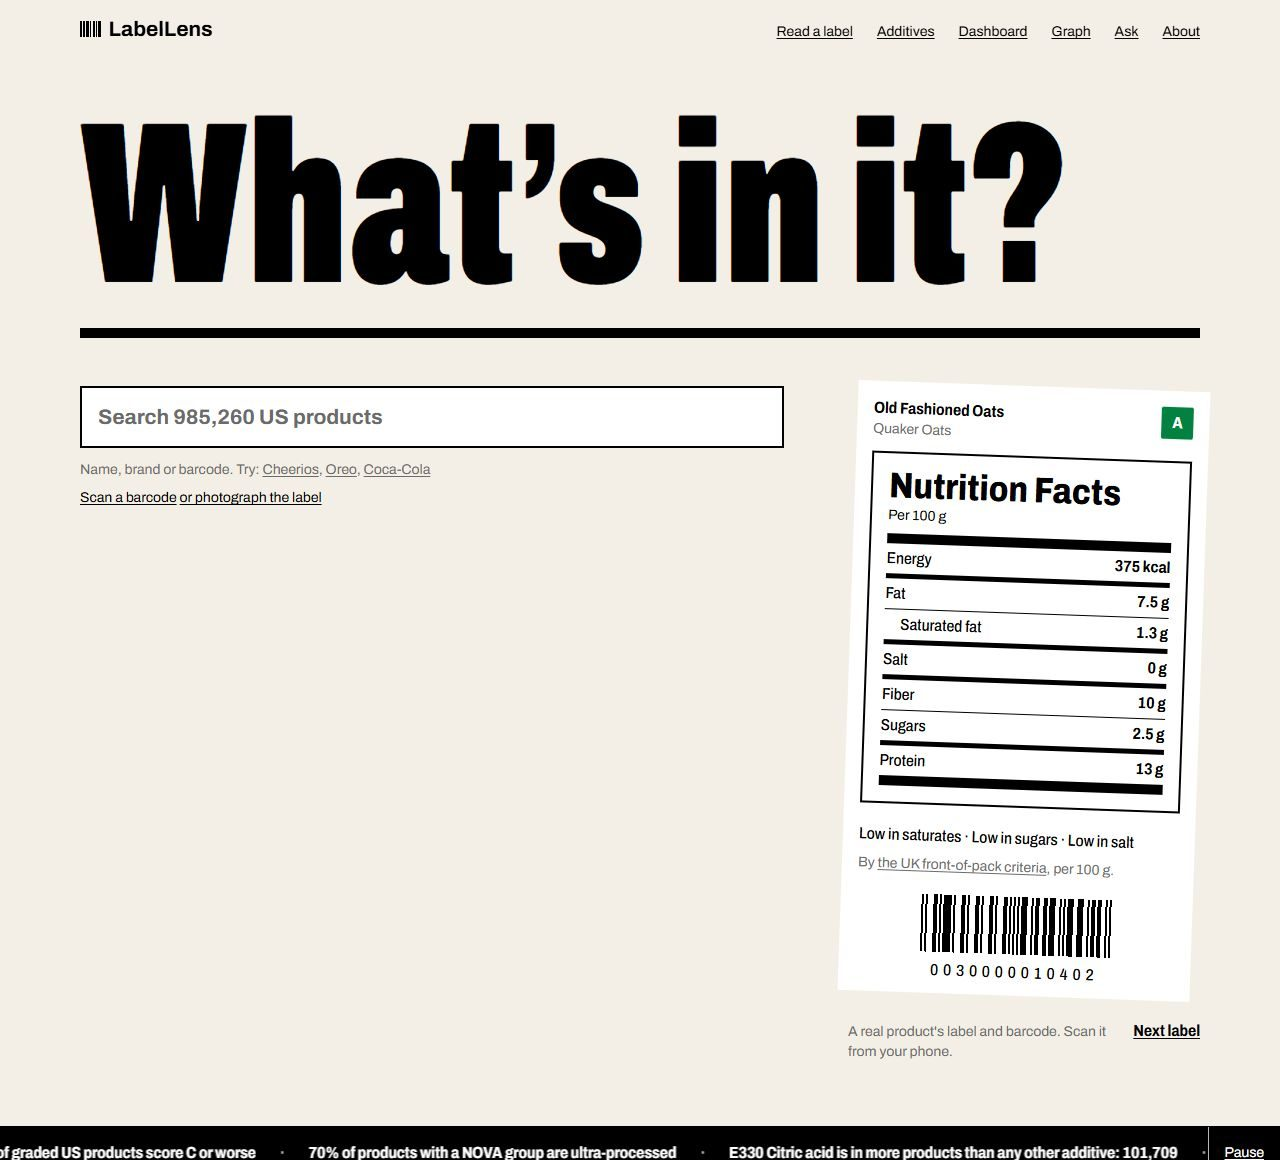
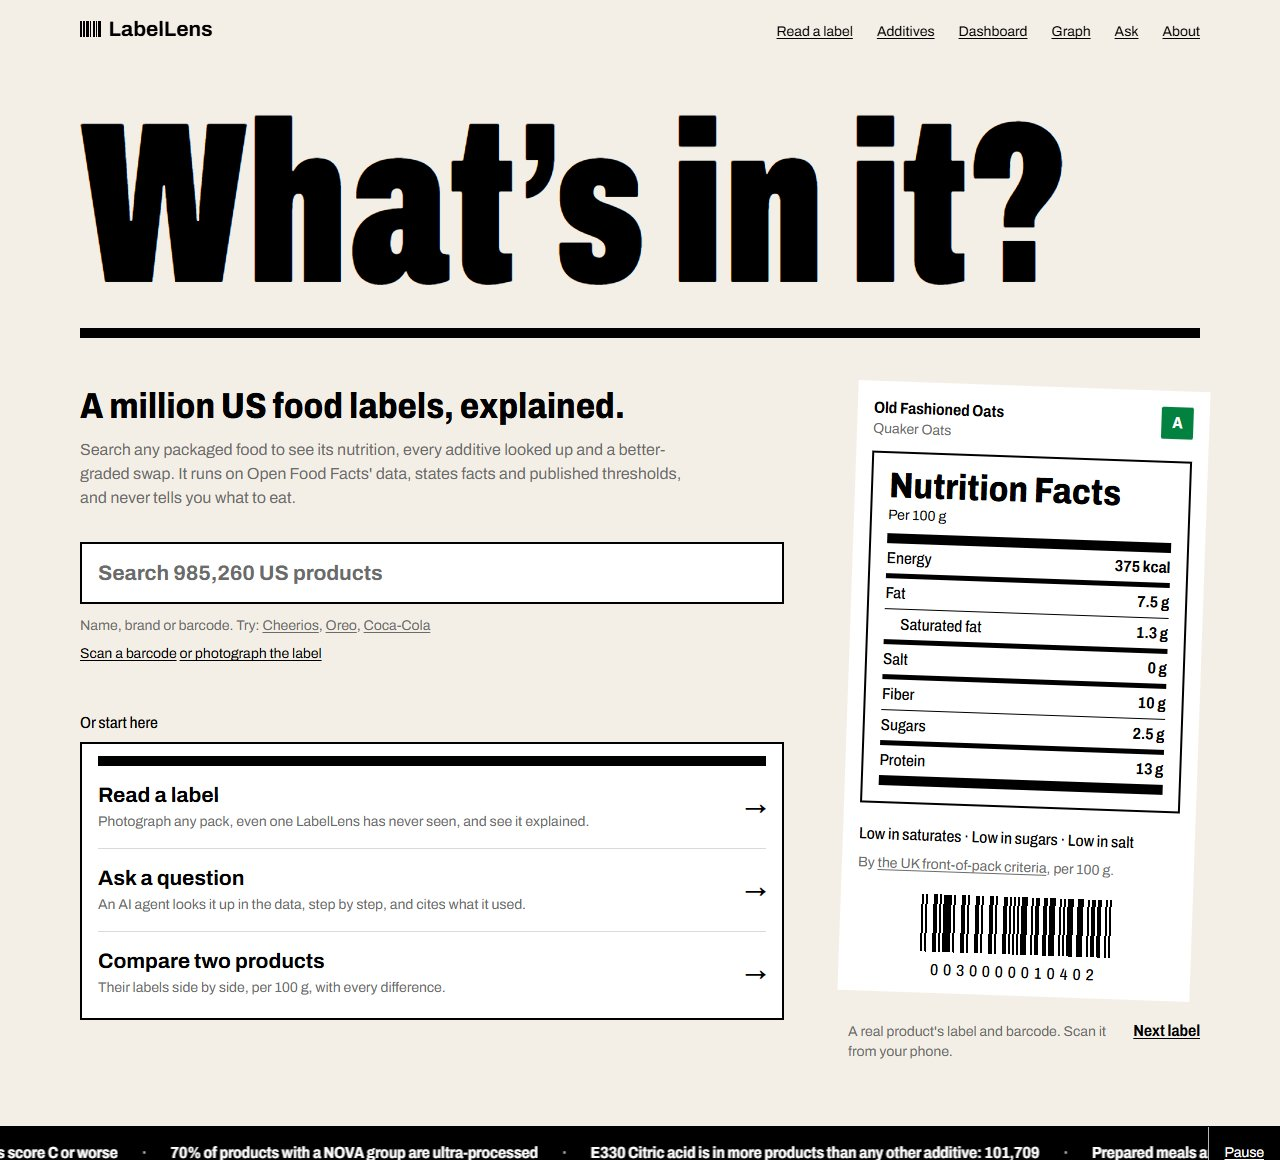
README screenshots of the current site, 100 px thumbnails, and decision note 0018

diff --git a/web/components/label/pack-photo.test.tsx b/web/components/label/pack-photo.test.tsx
@@ -1,7 +1,7 @@
 import { cleanup, render, screen } from "@testing-library/react";
 import { afterEach, expect, test } from "vitest";
 
-import { PackPhoto } from "./pack-photo";
+import { PackPhoto, thumbnail } from "./pack-photo";
 
 afterEach(cleanup);
 
@@ -28,6 +28,17 @@ test("a row thumbnail is decoration beside the name, loaded lazily", () => {
   expect(img.getAttribute("alt")).toBe("");
   expect(img.getAttribute("loading")).toBe("lazy");
   expect(container.firstElementChild?.className).toContain("h-12 w-12");
+  // The 100 px photo, not the 400 px one the page's main photo uses.
+  expect(img.getAttribute("src")).toBe(SRC.replace(".400.jpg", ".100.jpg"));
+});
+
+test("only Open Food Facts' 400 px photos are swapped for their 100 px version", () => {
+  expect(thumbnail("https://images.openfoodfacts.org/x/front_en.8.400.jpg")).toBe(
+    "https://images.openfoodfacts.org/x/front_en.8.100.jpg",
+  );
+  expect(thumbnail("https://images.openfoodfacts.org/x/front_en.8.full.jpg")).toBe(
+    "https://images.openfoodfacts.org/x/front_en.8.full.jpg",
+  );
 });
 
 test("a row without a photo keeps an empty frame, so rows line up", () => {

diff --git a/web/app/product/[code]/page.tsx b/web/app/product/[code]/page.tsx
@@ -2,9 +2,8 @@ import type { Metadata } from "next";
 import Link from "next/link";
 import { notFound } from "next/navigation";
 import { Suspense, ViewTransition } from "react";
-import { preconnect } from "react-dom";
 
-import { PackPhoto, PHOTO_ORIGIN } from "@/components/label/pack-photo";
+import { PackPhoto } from "@/components/label/pack-photo";
 import { Rule } from "@/components/label/primitives";
 import { AdditiveList } from "@/components/product/additive-list";
 import { IngredientList } from "@/components/product/ingredient-list";
@@ -52,9 +51,6 @@ export async function generateMetadata({
 
 /** Not async: params are awaited inside the Suspense boundary, so the shell prerenders. */
 export default function ProductPage({ params }: PageProps<"/product/[code]">) {
-  // The pack photo is the largest thing on the page and comes from Open Food Facts' image
-  // server: connect to it while the product loads, so the photo is not waiting on a handshake.
-  preconnect(PHOTO_ORIGIN);
   return (
     <Suspense fallback={<ProductSkeleton />}>
       {params.then(({ code }) => (

diff --git a/web/components/label/pack-photo.tsx b/web/components/label/pack-photo.tsx
@@ -1,5 +1,11 @@
-/** Where Open Food Facts serves pack photos from. */
-export const PHOTO_ORIGIN = "https://images.openfoodfacts.org";
+/**
+ * Open Food Facts serves each photo at 100, 200 and 400 px wide (`front_en.8.400.jpg`). A 48 or
+ * 96 px frame needs the 100 px one (sharp at twice the pixel density), a sixth of the bytes,
+ * so thumbnails do not compete with the page's main photo.
+ */
+export function thumbnail(src: string): string {
+  return src.replace(/\.400\.jpg$/, ".100.jpg");
+}
 
 /**
  * A product's pack photo, linked from Open Food Facts (never copied or re-hosted: About, "Where
@@ -53,7 +59,7 @@ export function PackPhoto({
     >
       {src && (
         // eslint-disable-next-line @next/next/no-img-element
-        <img src={src} alt="" loading="lazy" className="h-full w-full object-contain" />
+        <img src={thumbnail(src)} alt="" loading="lazy" className="h-full w-full object-contain" />
       )}
     </span>
   );

diff --git a/docs/decisions/0018-award-site-review.md b/docs/decisions/0018-award-site-review.md
@@ -1,0 +1,38 @@
+# 0018: Finishing the look against award-winning sites
+
+Status: draft, for Aditya to review and edit. Date: 2026-11-25.
+
+Before calling LabelLens finished, Aditya asked for it to be checked against award-winning sites (Awwwards, the Webby winners, Web Design Awards, Site of Sites, and Tabnav's list of best website designs). The site already had its own strong system (DESIGN.md: one label, Nutri-Score colours used only for grades, motion only when something prints). The question was what those sites do well that LabelLens did not, without copying their look.
+
+## Chosen: five changes that show the real thing, bigger, and quieter
+
+Every change was its own pull request, each with screenshots at 375, 1280 and 1600 px in `docs/design/`.
+
+- **Pack photos (#46).** Award sites about products show the product. LabelLens showed a name and numbers only. Product pages, search results, swaps, comparisons and the basket now show Open Food Facts' pack photo, linked rather than copied, with the contributors' CC BY-SA credit on the product page.
+- **Big page openings (#47).** The winners open each page with type that fills the screen. Every page title went from the Title size to a new Page size (52 px on phones up to 88 px), the same narrow, heavy face as the home headline.
+- **Things to try as cards (#48).** The sample labels on Read a label and the example questions on Ask were a line of underlined links. They are now cards: the label's photo, and each question with one line saying what the agent will do with it.
+- **An additive guide you can scan (#49).** One column of 515 additives was 27,000 px tall at 1280 px. It now shows the 50 most common, filters by what additives do (colours, preservatives and six more, each with its count), and offers "Show all 515". Any search or filter searches all of them. The page is about 3,750 px tall.
+- **Quiet motion on scroll (#50).** The home page's grade strip wipes in once when it scrolls into view, the same print move as the label, and stays still under reduced motion. Nothing else moves on scroll.
+
+The home hero (#45) was fixed in the same round: a line saying what LabelLens is, and the three main ways in under the search box, so the left half is no longer empty beside the label.
+
+**Rejected:**
+- **Numbers that count up** in "How it's measured". I proposed it; DESIGN.md already lists "Number counters that tick up" under Never, and the rule stands. The numbers are still.
+- **Fade-and-slide on every section**, parallax and scroll hijacking: common on award sites, and all on DESIGN.md's Never list. One element moves, once.
+- **Hosting or resizing the pack photos ourselves** (next/image or a CDN): it would copy Open Food Facts' photos, which About says LabelLens never does. Photos are linked from their server at the sizes it already offers.
+- **A new colour for the cards or chips:** colour on this site means a Nutri-Score grade. Cards are white panels with the ink rule; the chosen filter chip is paper on ink.
+
+**What it cost:**
+- **Speed on the product page.** The pack photo is now the largest thing on the page, so Lighthouse's largest-paint time is the photo's download. On production that took the product page from 98 to 91 on performance, against a target of 90. Connecting early to the photo server made no measurable difference, so it was not kept. Thumbnails now load Open Food Facts' 100 px photo instead of the 400 px one (6 kB instead of about 30 to 60 kB each), which helps search lists but did not move the product page's score.
+- **The grade strip needs JavaScript.** Without it the strip stays hidden, as the dashboard's bars already did.
+
+## Fixed after the round
+
+- **The page description reached Lighthouse too late.** Next.js streams a page's title and description into the body for any browser it does not know as a crawler, and Lighthouse's SEO check read the product page as having no description (91). `htmlLimitedBots: /.*/` puts them in the head for everyone. On a local production build against the live API, SEO went from 91 to 100 on all three runs, and the first paint was no slower (about 765 ms, against 908 ms before).
+- **The README's screenshots** were from 2026-11-19 and showed none of this round. The eight that changed were retaken from production.
+
+## Checked
+
+- `uv run python scripts/check.py` on every pull request; CI on main after each merge.
+- The production smoke test after the merges: 23 of 23.
+- Lighthouse on production after the five merges: home 100 in every category; product 91 on performance and SEO; dashboard 96 on performance, 100 on a rerun. `evals/results/lighthouse.md` is remeasured once the description fix is live.

diff --git a/README.md b/README.md
@@ -1,6 +1,6 @@
 <div align="center">
 
-<img src="docs/readme/hero.jpg" alt="The LabelLens home page: a poster headline asking What's in it?, a product search box, and a live Nutrition Facts label printed beside it like a sticker" width="100%">
+<img src="docs/readme/hero.jpg" alt="The LabelLens home page: a poster headline asking What's in it?, one line saying what LabelLens is, a product search box with the three main ways in under it, and a live Nutrition Facts label printed beside it like a sticker" width="100%">
 
 # LabelLens
 
@@ -44,17 +44,17 @@ LabelLens puts it in one place. It states facts and published thresholds, and it
 <table>
 <tr>
 <td width="50%" valign="top">
-<img src="docs/readme/product.jpg" alt="Product page for Cheerios: Nutri-Score C, NOVA 4, additives, a better swap and a Nutrition Facts panel" width="100%">
+<img src="docs/readme/product.jpg" alt="Product page for Oreo: its pack photo, Nutri-Score E, NOVA 4, five additives, three better swaps with their photos, a Nutrition Facts panel and high-in flags" width="100%">
 <b>Look up any product.</b> Search by name, brand or barcode, or scan one with your phone's camera. Each page shows the Nutri-Score, the NOVA processing group, nutrients per 100 g with plain "high in" and "low in" flags, and every additive explained.
 </td>
 <td width="50%" valign="top">
-<img src="docs/readme/label-read.jpg" alt="Read a label: two photos of a coconut water carton and the Nutrition Facts read from them" width="100%">
+<img src="docs/readme/label-read.jpg" alt="Read a label: three sample labels as photo cards, then two photos of a coconut water carton and the start of what was read from them" width="100%">
 <b>Read a label from a photo.</b> Photograph any pack, even one that isn't in the data. Claude reads what's printed, the code converts it to per 100 g, explains the additives, finds the product it most likely is, and suggests better-graded ones.
 </td>
 </tr>
 <tr>
 <td width="50%" valign="top">
-<img src="docs/readme/ask.jpg" alt="The ask page answering: breakfast cereals under 5 g sugar without artificial colours, with ten numbered sources" width="100%">
+<img src="docs/readme/ask.jpg" alt="The ask page: three example questions as cards, then the agent's steps for breakfast cereals under 5 g sugar without artificial colours, and the start of its answer" width="100%">
 <b>Ask a question.</b> A tool-using agent answers from the data with read-only SQL, graph queries and explainer search. It streams its steps, and it can only cite rows its tools actually returned. It refuses medical advice.
 </td>
 <td width="50%" valign="top">
@@ -64,7 +64,7 @@ LabelLens puts it in one place. It states facts and published thresholds, and it
 </tr>
 <tr>
 <td width="50%" valign="top">
-<img src="docs/readme/basket.jpg" alt="My basket: four products, their Nutri-Score mix, high-in counts, and a one-tap swap under each" width="100%">
+<img src="docs/readme/basket.jpg" alt="My basket: four products with their pack photos, their Nutri-Score mix, high-in counts, and a one-tap swap under each" width="100%">
 <b>Plan a shop.</b> Put products in a basket to see them together: the grade mix, what's ultra-processed, every additive across them, and a one-tap better swap for each. Set your own rules (sugar, salt and saturated-fat limits, a minimum grade, additives to avoid), and every page says which ones a product meets.
 </td>
 <td width="50%" valign="top">
@@ -74,7 +74,7 @@ LabelLens puts it in one place. It states facts and published thresholds, and it
 </tr>
 <tr>
 <td width="50%" valign="top">
-<img src="docs/readme/dashboard.jpg" alt="Dashboard: the US label landscape, with grades and processing by category" width="100%">
+<img src="docs/readme/dashboard.jpg" alt="Dashboard: the US label landscape, with grades, processing, the largest categories and the most common additives" width="100%">
 <b>See the whole shelf.</b> A dashboard of the US packaged-food landscape: grades, processing and additives by category.
 </td>
 <td width="50%" valign="top">
